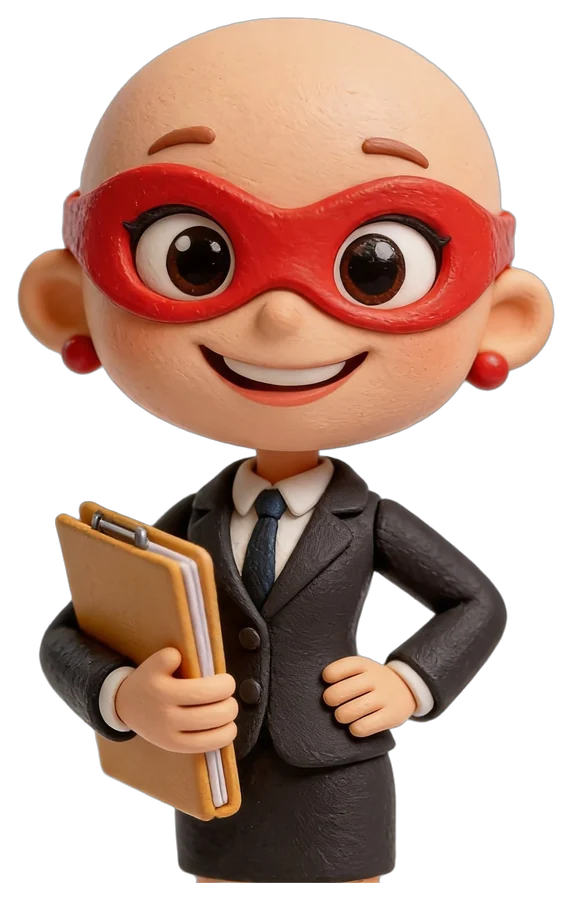
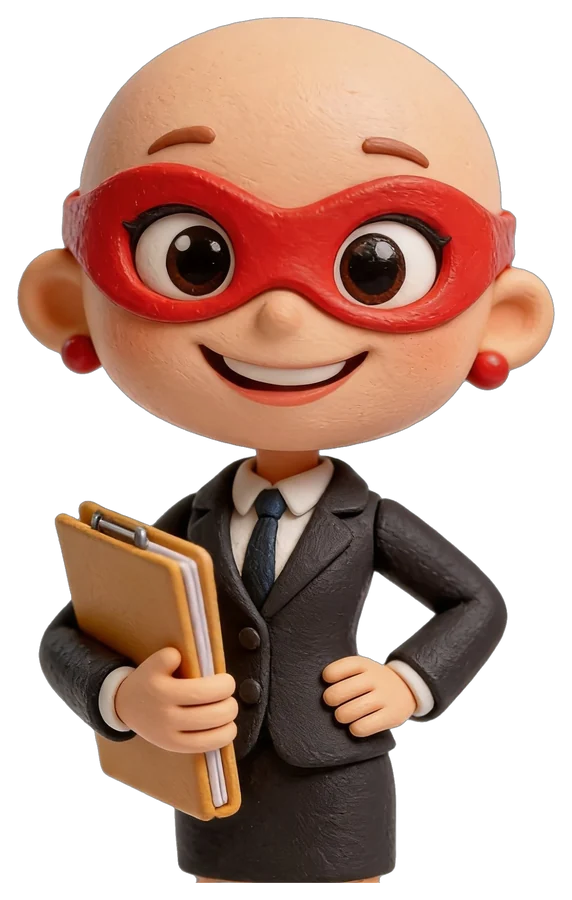
Más Super Calvitos: Calvitas y nuevos oficios
- Recortes sin fondo de piloto, ejecutivo, chef, Calvita policía y
  Calvita doctora (sin marca de agua)
- "Sueñan en grande" con 6 personajes: 3 Calvitos y 3 Calvitas
- Empresaria y ejecutivo juntos en la sección de empresas

Claude-Session: https://claude.ai/code/session_01M8mLKPnw7ranJKf17QdL3K

Changed region(s): [[0.6538, 0.2489, 0.6836, 0.28], [0.2972, 0.2489, 0.3269, 0.28], [0.0892, 0.2489, 0.1189, 0.28]]

diff --git a/src/config/characters.ts b/src/config/characters.ts
@@ -40,6 +40,41 @@ export const characters = {
     cutout: true,
     alt: 'Calvita con antifaz rojo, vestido ejecutivo y carpeta, sonríe con la mano en la cintura.',
   },
+  piloto: {
+    src: '/img/calvitos/piloto.webp',
+    width: 904,
+    height: 900,
+    cutout: true,
+    alt: 'Calvito vestido de piloto, manejando un avión de juguete.',
+  },
+  ejecutivo: {
+    src: '/img/calvitos/ejecutivo.webp',
+    width: 485,
+    height: 900,
+    cutout: true,
+    alt: 'Calvito con traje negro, corbata verde y maletín.',
+  },
+  chef: {
+    src: '/img/calvitos/chef.webp',
+    width: 476,
+    height: 900,
+    cutout: true,
+    alt: 'Calvito vestido de chef, con gorro blanco y una bandeja de comida.',
+  },
+  policiaCalvita: {
+    src: '/img/calvitos/policia-calvita.webp',
+    width: 555,
+    height: 900,
+    cutout: true,
+    alt: 'Calvita vestida de policía, con antifaz rojo y diadema de estrella.',
+  },
+  doctora: {
+    src: '/img/calvitos/doctora.webp',
+    width: 671,
+    height: 900,
+    cutout: true,
+    alt: 'Calvita vestida de doctora, con bata blanca y estetoscopio, sonríe feliz.',
+  },
   calvito: {
     src: '/img/calvito.webp',
     width: 283,

diff --git a/src/i18n/es.ts b/src/i18n/es.ts
@@ -64,11 +64,14 @@ const es = {
     ],
     dreamsTitle: 'Sueñan en grande',
     dreamsBody:
-      'Bomberos, policías, doctores… Los Super Calvitos ya saben qué quieren ser cuando sean grandes. Para llegar allá, hoy necesitan un hogar donde descansar y seguir soñando.',
+      'Bomberos, pilotos, doctoras, chefs… Los Super Calvitos ya saben qué quieren ser cuando sean grandes. Para llegar allá, hoy necesitan un hogar donde descansar y seguir soñando.',
     dreams: [
       { who: 'bombero', caption: '🚒 Quiero ser bombero' },
-      { who: 'policia', caption: '🚓 Quiero ser policía' },
-      { who: 'doctor', caption: '🩺 Quiero ser doctor' },
+      { who: 'doctora', caption: '🩺 Quiero ser doctora' },
+      { who: 'piloto', caption: '✈ Quiero ser piloto' },
+      { who: 'policiaCalvita', caption: '🚓 Quiero ser policía' },
+      { who: 'chef', caption: '🍲 Quiero ser chef' },
+      { who: 'constructor', caption: '🔨 Quiero ser constructor' },
     ],
     banner:
       'Los Super Calvitos son los valientes que luchan cada día. Tú puedes ser su héroe: no con capa, con amor.',
